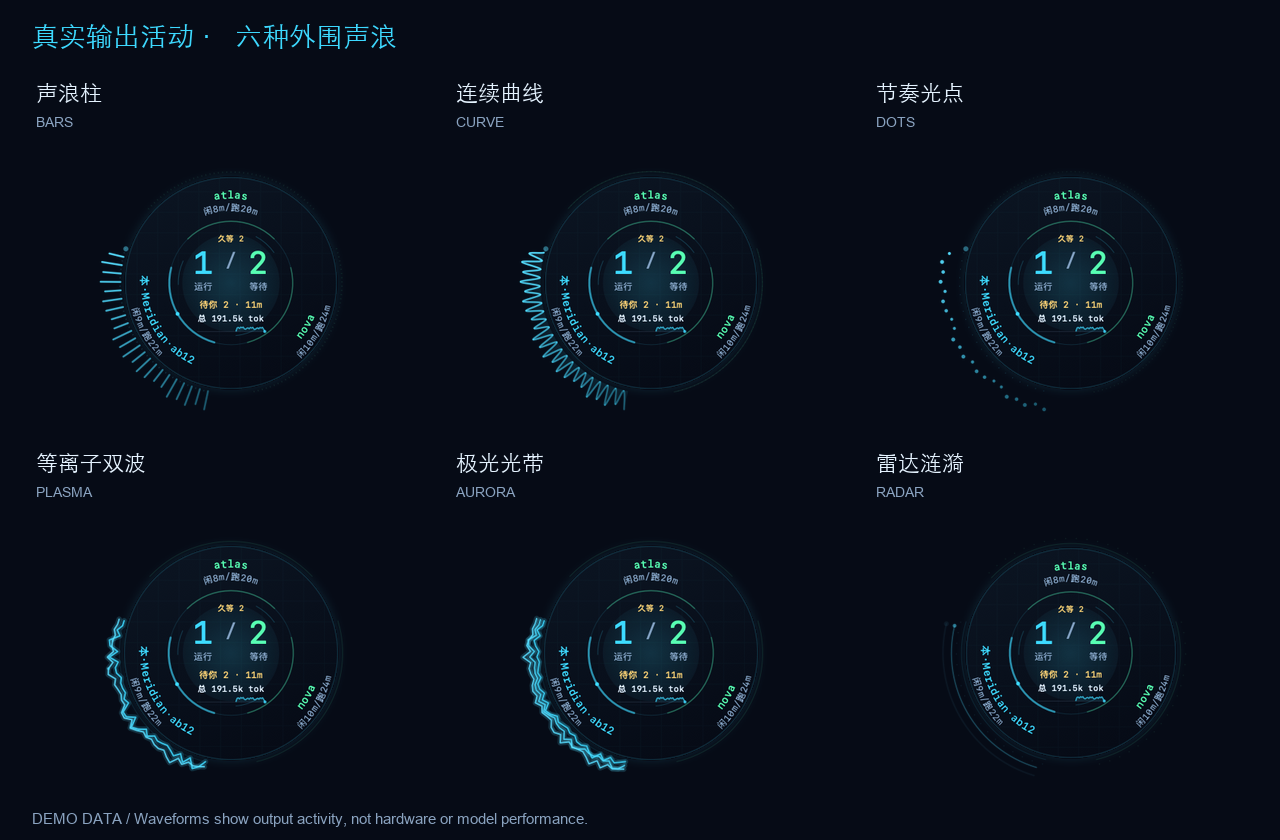
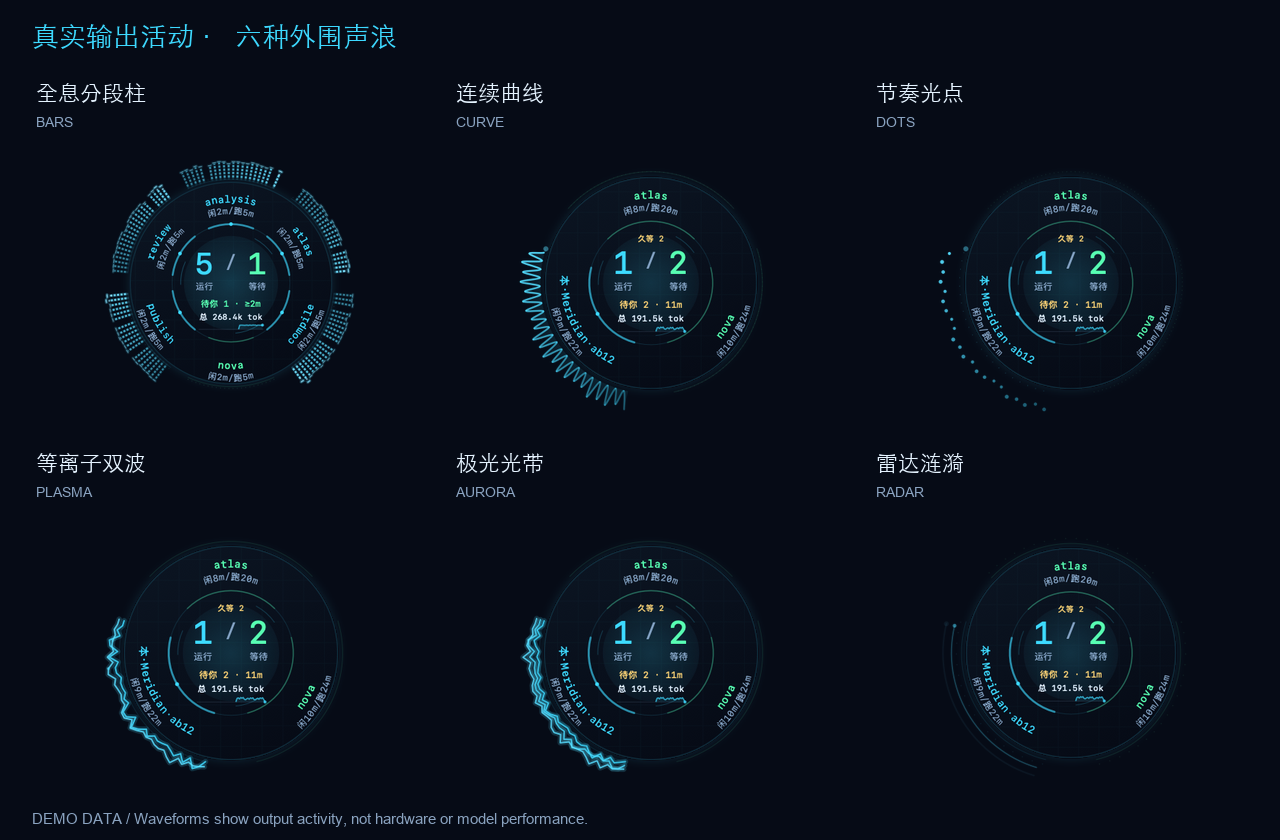
Upgrade output bars with segmented holographic peaks and trails

Changed region(s): [[0.0625, 0.1857, 0.2812, 0.4952], [0.0312, 0.0929, 0.125, 0.1238]]

diff --git a/desktop/OrbitView.swift b/desktop/OrbitView.swift
@@ -282,7 +282,7 @@ final class BubbleView: NSView {
         if !nodes.contains(where: { $0.key == hoveredName }) { hoveredName = nil }
         configureRings()
         let style = ThemePalette.waveStyle(waveStyle)
-        let padding: CGFloat = style == "off" ? 23 : ["plasma", "aurora"].contains(style) ? ceil(26 + 7 * waveHeight) :
+        let padding: CGFloat = style == "off" ? 23 : style == "bars" ? ceil(26 + 12 * waveHeight) : ["plasma", "aurora"].contains(style) ? ceil(26 + 7 * waveHeight) :
             style == "radar" ? ceil(26 + 9 * waveHeight) : max(32, 18 + 12 * waveHeight + 3)
         fullDiameter = ceil((orbitRadius + padding) * 2)
         applySize()
@@ -515,6 +515,10 @@ final class BubbleView: NSView {
     private func drawWaves(_ center: NSPoint, ring: Ring, inner: Bool, now: TimeInterval, reducedMotion: Bool) {
         guard waveStyle != "off" else { return }
         let style = ThemePalette.waveStyle(waveStyle)
+        if style == "bars" {
+            drawSpectrumBars(center, ring: ring, inner: inner, now: now, reducedMotion: reducedMotion)
+            return
+        }
         if ["plasma", "aurora", "radar"].contains(style) {
             drawLayeredWaves(center, ring: ring, inner: inner, now: now, reducedMotion: reducedMotion, style: style)
             return
@@ -591,6 +595,107 @@ final class BubbleView: NSView {
                 let head = point(center, radius, theta - span * 0.4)
                 waveColor(node, fraction: 1).withAlphaComponent(CGFloat(1 - age / 2)).setFill()
                 NSBezierPath(ovalIn: NSRect(x: head.x - 2, y: head.y - 2, width: 4, height: 4)).fill()
+            }
+        }
+    }
+
+    private func drawSpectrumBars(_ center: NSPoint, ring: Ring, inner: Bool, now: TimeInterval,
+                                  reducedMotion: Bool) {
+        let radius = ring.radius + (inner ? 16 : 18)
+        let span = CGFloat.pi * 2 / CGFloat(max(1, ring.indices.count))
+        let scale: CGFloat = inner ? 0.42 : 1
+        for (slot, nodeIndex) in ring.indices.enumerated() {
+            let node = nodes[nodeIndex]
+            let theta = angle(slot, ring)
+            let baseCount = max(12, min(48, Int(span * radius * 0.8 / 3.2)))
+            let count = max(8, min(72, Int((CGFloat(baseCount) * waveDensity).rounded())))
+            let spacing = radius * span * 0.8 / CGFloat(max(1, count - 1))
+            let width = min(inner ? 1.55 : 2.55, max(0.65, spacing * 0.52))
+            let bucket = 24 / Double(count)
+            let marks = outputMarks[node.key] ?? []
+            let recent = marks.contains { now - $0.time >= 0 && now - $0.time < 2.5 }
+            let anchor = reducedMotion || !recent ? marks.last?.time ?? now : now
+            let end = floor(anchor / bucket) * bucket + bucket
+            // Every temporal effect is tied to observed output. Freezing this
+            // clock also freezes peaks, glow and tails for Reduce Motion.
+            let visualTime = reducedMotion ? marks.last?.time ?? now : now
+            let rail = NSBezierPath()
+            rail.appendArc(withCenter: center, radius: radius - 1.5,
+                           startAngle: (theta - span * 0.41) * 180 / .pi,
+                           endAngle: (theta + span * 0.41) * 180 / .pi)
+            waveColor(node, fraction: 0).withAlphaComponent(node.live ? 0.12 : 0.055).setStroke()
+            rail.lineWidth = 0.55; rail.stroke()
+            var previousPeak: NSPoint?
+            for index in 0..<count {
+                let fraction = CGFloat(index) / CGFloat(max(1, count - 1))
+                let barAngle = theta + span * (0.4 - fraction * 0.8)
+                let start = end - Double(count - index) * bucket
+                let events = marks.filter { $0.time >= start && $0.time < start + bucket }
+                let amount = events.reduce(0) { $0 + $1.amount }
+                let color = waveColor(node, fraction: fraction)
+                let base = point(center, radius, barAngle)
+                guard node.live && node.running && amount > 0 else {
+                    color.withAlphaComponent(node.live ? 0.13 : 0.065).setFill()
+                    NSBezierPath(ovalIn: NSRect(x: base.x - 0.4, y: base.y - 0.4, width: 0.8, height: 0.8)).fill()
+                    previousPeak = nil
+                    continue
+                }
+                let energy = outputLevel(Double(amount) / bucket)
+                let height = (inner ? 1.7 + energy * 3.3 : 2.2 + energy * 9.8) * waveHeight
+                let age = max(0, visualTime - (events.last?.time ?? visualTime))
+                let flash = CGFloat(max(0, 1 - age / 1.8))
+                let opacity: CGFloat = 0.35 + fraction * 0.46
+                let bright = color.blended(withFraction: 0.48, of: ThemePalette.ns(.text)) ?? color
+                let trail = NSBezierPath()
+                trail.move(to: base)
+                trail.line(to: point(center, radius + height + flash * 3 * scale, barAngle))
+                color.withAlphaComponent(0.055 + flash * 0.085).setStroke()
+                trail.lineWidth = min(spacing * 0.8, width + 1.8 * scale)
+                trail.lineCapStyle = .round; trail.stroke()
+
+                // Batch all segments of one column into a path. Gaps keep
+                // high-density rings legible without a broad continuous glow.
+                let segments = NSBezierPath()
+                let pitch: CGFloat = inner ? 1.95 : 2.8
+                var offset: CGFloat = 0
+                while offset < height {
+                    let stop = min(height, offset + pitch * 0.64)
+                    segments.move(to: point(center, radius + offset, barAngle))
+                    segments.line(to: point(center, radius + stop, barAngle))
+                    offset += pitch
+                }
+                segments.lineCapStyle = .butt
+                color.withAlphaComponent(opacity).setStroke(); segments.lineWidth = width; segments.stroke()
+                bright.withAlphaComponent(0.36 + flash * 0.32).setStroke()
+                segments.lineWidth = min(0.6, width * 0.38); segments.stroke()
+
+                let tip = point(center, radius + height, barAngle)
+                let peak = point(center, radius + height + (0.8 + flash * 2.2) * scale, barAngle)
+                let tangent = NSPoint(x: -sin(barAngle), y: cos(barAngle))
+                let halfCap = min(spacing * 0.34, width * 0.72 + 0.25)
+                let cap = NSBezierPath()
+                cap.move(to: NSPoint(x: peak.x - tangent.x * halfCap, y: peak.y - tangent.y * halfCap))
+                cap.line(to: NSPoint(x: peak.x + tangent.x * halfCap, y: peak.y + tangent.y * halfCap))
+                color.withAlphaComponent(0.13 + flash * 0.16).setStroke()
+                cap.lineWidth = 2 * scale + 0.4; cap.lineCapStyle = .round; cap.stroke()
+                bright.withAlphaComponent(0.55 + flash * 0.4).setStroke(); cap.lineWidth = 0.65; cap.stroke()
+                if let previous = previousPeak {
+                    let crown = NSBezierPath(); crown.move(to: previous); crown.line(to: peak)
+                    color.withAlphaComponent(0.13 + flash * 0.1).setStroke()
+                    crown.lineWidth = 0.5; crown.stroke()
+                }
+                previousPeak = peak
+                if !inner {
+                    let reflection = NSBezierPath(); reflection.move(to: base)
+                    reflection.line(to: point(center, radius - min(2.2, height * 0.15), barAngle))
+                    color.withAlphaComponent(opacity * 0.19).setStroke()
+                    reflection.lineWidth = width * 0.8; reflection.stroke()
+                }
+                if flash > 0 {
+                    bright.withAlphaComponent(flash * 0.8).setFill()
+                    let dot: CGFloat = inner ? 0.55 : 0.75
+                    NSBezierPath(ovalIn: NSRect(x: tip.x - dot, y: tip.y - dot, width: dot * 2, height: dot * 2)).fill()
+                }
             }
         }
     }

diff --git a/desktop/SettingsView.swift b/desktop/SettingsView.swift
@@ -164,7 +164,7 @@ struct SettingsView: View {
             Section("外围声浪") {
                 Picker("样式", selection: $draft.waveStyle) {
                     Text("跟随皮肤").tag("theme")
-                    Text("声浪柱").tag("bars")
+                    Text("全息声浪柱 · 分段峰值").tag("bars")
                     Text("连续曲线").tag("curve")
                     Text("节奏光点").tag("dots")
                     Text("等离子双波 · 多层粒子").tag("plasma")

diff --git a/scripts/render_media.py b/scripts/render_media.py
@@ -100,7 +100,7 @@ def main():
         text(d,(x+8,26),title,19,CYAN)
         place(themes,images['panel-'+key],(x,70),286)
     themes.save(output/'themes.png')
-    styles = [('bars','声浪柱'), ('curve','连续曲线'), ('dots','节奏光点'),
+    styles = [('bars','全息分段柱'), ('curve','连续曲线'), ('dots','节奏光点'),
               ('plasma','等离子双波'), ('aurora','极光光带'), ('radar','雷达涟漪')]
     if all((args.input / ('orbit-wave-' + key + '.png')).exists() for key, _ in styles):
         waves = Image.new('RGB', (1280, 840), '#060b16'); wave_draw = ImageDraw.Draw(waves)

diff --git a/docs/USAGE.zh-CN.md b/docs/USAGE.zh-CN.md
@@ -2,7 +2,7 @@
 
 A small native macOS monitor for local Codex CLI and remote Codex CLI / Claude Code CLI sessions.
 
-**5.2.0 — 分会话计时、可配置互斥组、久等提醒与可切换的小号悬浮球。**
+**5.2.1 — 全息分段声浪柱，以及分会话计时、可配置互斥组和久等提醒。**
 
 用紧凑的置顶窗口或桌面会话环，查看 Agent 何时真正等待下一次输入、何时需要处理异常。绿色表示等待，黄色表示待处理，红色表示异常；运行色随皮肤变化，也可选择经典配色中的橙色。待核实与离线各有独立状态色。保留终端与在线 Agent 数量只提供上下文，不会把已结束的主对话误判成运行中。
 
@@ -78,7 +78,7 @@ macOS 个人数据保存于 `~/Library/Application Support/Agent Orbit/`：
 
 | 设置 | 可选内容 |
 | --- | --- |
-| 样式 | 随皮肤（`theme`）、柱形（`bars`）、曲线（`curve`）、光点（`dots`）、等离子双波（`plasma`）、极光光带（`aurora`）、雷达涟漪（`radar`）、关闭（`off`） |
+| 样式 | 随皮肤（`theme`）、全息声浪柱（`bars`）、曲线（`curve`）、光点（`dots`）、等离子双波（`plasma`）、极光光带（`aurora`）、雷达涟漪（`radar`）、关闭（`off`） |
 | 配色 | 随皮肤（`theme`）、Ice、Aurora、Ember、状态色（`status`） |
 | 高度 | 50%–150% |
 | 密度 | 60%–160% |
@@ -86,6 +86,8 @@ macOS 个人数据保存于 `~/Library/Application Support/Agent Orbit/`：
 声浪由最近输出或日志变化驱动。Ice、Aurora、Ember 是运行与等待状态下的装饰渐变；待处理、异常、待核实和离线优先显示对应状态色。声浪配色中的 `theme` 和 `status` 均遵循当前全局状态配色。高度、密度与配色只影响显示，不改变采样或状态判断；图形不表示 CPU 利用率、Token 速度或推理效率。关闭声浪后会话状态仍照常更新。
 
 默认悬浮球缩放 85%、声浪高度 130%。声浪没有真实活动时保持安静，开启减少动态效果时保留静态轮廓。完整球显示圆周会话与闲／跑时长，单击可缩成小号球，双击打开面板。
+
+“全息声浪柱 · 分段峰值”沿用 `bars` 设置。分段柱身、亮色细芯、峰值短帽和短暂光尾展示近 24 秒输出的强弱变化；最新输出触发亮点，静默后动态效果收敛。已有声浪柱用户会直接获得新外观，高度、密度和皮肤配色继续生效。
 
 设置文件保留旧键 `orbit_label_color`：`theme` 现在表示全局皮肤状态色，`status` 表示全局经典状态色。已有设置可继续使用，无需重建关注列表。开发接口和各皮肤色值见 [颜色分析与统一接口](THEMING.md)。
 

diff --git a/README.md b/README.md
@@ -57,7 +57,7 @@ https://github.com/user-attachments/assets/13b256c0-9bb2-414b-a473-045c255d25ad
 - **两种悬浮球**：小号球显示待响应和最长等待，完整球显示圆周会话名；单击切换大小，双击打开面板，拖动移动，多会话自动双圈。
 - **完成与异常提醒**：分别控制声音，恢复后自动移除旧异常，不展示执行历史。
 - **统一状态配色**：四套皮肤；名字、状态文字、圆弧与标记使用同一套状态色，可选择皮肤状态色或经典状态色。另可调整置顶、透明度、悬浮球尺寸及显示内容。
-- **自定义外围声浪**：选择随皮肤、柱形、曲线、光点，以及等离子双波、极光光带、雷达涟漪；分别设置配色、高度与密度。声浪随真实输出活动变化；圆周名字下显示累计闲／跑时长。
+- **自定义外围声浪**：选择随皮肤、全息分段声浪柱、曲线、光点，以及等离子双波、极光光带、雷达涟漪；分别设置配色、高度与密度。声浪随真实输出活动变化；圆周名字下显示累计闲／跑时长。
 - **全局用量总览**：查看会话运行占比、实时消耗、累计 Token、上游输出速度和工具完成速度；读取 CLI 实际用量记录，标明统计覆盖范围。[指标口径](docs/METRICS.md)
 - **保留原工作方式**：远端卡片进入原 tmux 会话，本机卡片唤起 Codex 客户端。
 
@@ -69,6 +69,10 @@ https://github.com/user-attachments/assets/13b256c0-9bb2-414b-a473-045c255d25ad
 <img src="docs/media/state-colors.png" width="100%" alt="Six distinct session state colors across four native skins, using synthetic data">
 
 <img src="docs/media/wave-styles.png" width="100%" alt="Waveform styles and palettes using synthetic CLI session data">
+
+<img src="docs/media/spectrum-bars.gif" width="280" alt="Holographic segmented output bars with peak caps and event-driven trails; synthetic CLI demo">
+
+全息声浪柱：分段柱身、亮色细芯、峰值短帽与输出触发的短拖尾。[四套皮肤预览](docs/media/spectrum-skins.png)
 
 ## 安装
 
